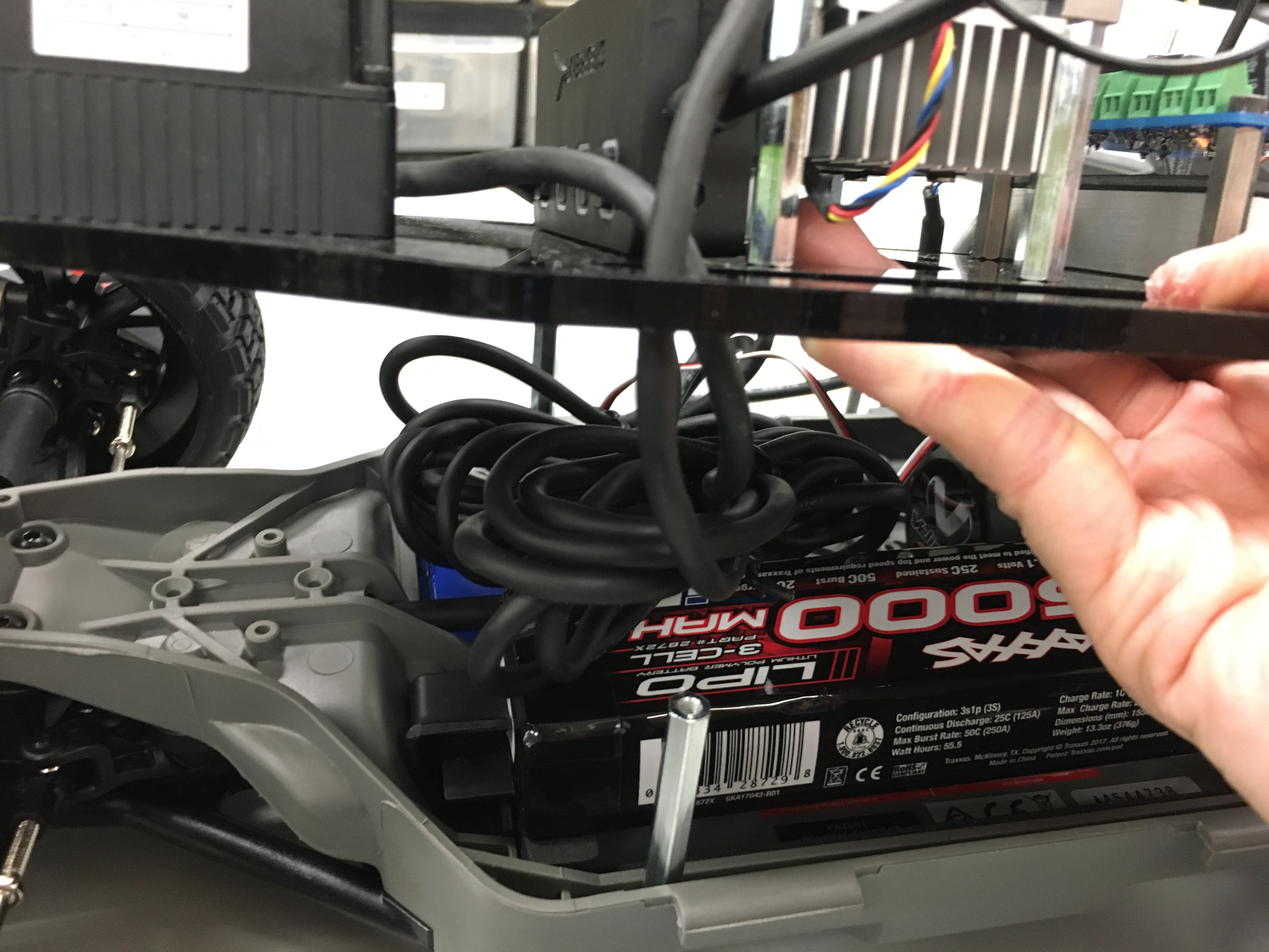
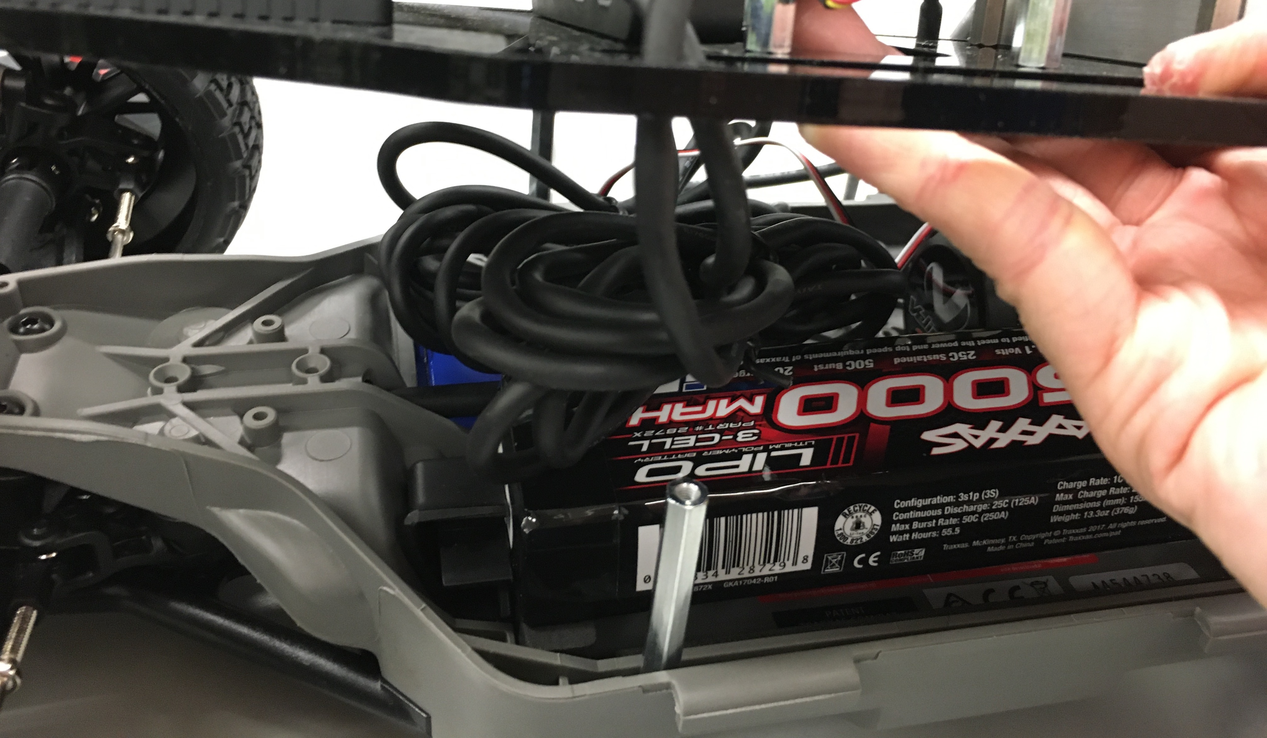
Rewriting Part 4 - Putting all together

diff --git a/getting_started/build_car/all_together.rst b/getting_started/build_car/all_together.rst
@@ -97,45 +97,59 @@ It should look like this:
 
 	TRX to XT90 adapter installed.
 
+After connecting the batter the car should look like this.
+
+.. figure:: img/together/together_NX_01.JPG
+	:align: center
+
+	Battery connected to the VESC.
+
 
 4. Connecting the NVIDIA Jetson NX with the VESC
 ----------------------------
 
+The NVIDIA Jetson NX needs to be connected to the powerboard. Use the barrel jack to pig tail connector. The board uses a 2.5x5.5mm power jack (MFN: PJ-036BH-SMT-TR). It is an unfortunate fact of life that the connections for barrel jacks are not standarized. For the specific barrel jack on this board, the center pin is POWER. Do not plug in a power supply whose center pin is ground. Connect one of the ends of the cable with GND on the powerboard, the other one with the 12V connector. Afterwards you can plug in the barrel jack in the NVIDIA Jetson NX.
+
+.. figure:: img/together/together_NX_03.JPG
+	:align: center
+
+	NVIDIA Jetson power supply connected with the powerboard.
+
 5. Lidar Connection
 ------------------------------
 
-	 The lidar comes with two very long cables. We are going to try out best to manage them. Split the two cables of the lidar and loop them under the slots on the Platform Deck.
+The lidar comes with two very long cables. We are going to try out best to manage them. Split the two cables of the lidar and loop them under the slots on the Platform Deck.
 
-	 .. figure:: img/ulchassis/ulchassis15.JPG
-	 	:align: center
+.. figure:: img/together/together_NX_06.JPG
+	:align: center
 
-	 	Looping the lidar cables through the slots.
+	Storing the USB Lidar Cable in front of the Lidar
 
-	 Using a twist tie, rubber band, or zip tie, gather the majority of the cables on each side.
+Using a twist tie, rubber band, or zip tie, gather the majority of the cables on each side.
 
-	 For the stripped cable side, insert the **BROWN (POWER)** and **BLUE (GROUND)** wires into one of the 12V terminal blocks on the Powerboard.
+For the stripped cable side, insert the **BROWN (POWER)** and **BLUE (GROUND)** wires into one of the 12V terminal blocks on the Powerboard.
 
-	 .. DANGER::
-	 	***BROWN is POWER and BLUE is GROUND.*  DO NOT MIX THESE UP OTHERWISE YOU WILL FRY YOUR VERY EXPENSIVE LIDAR.** And then life will be very very sad. When in doubt, check the side of the Hokuyo. It will list out the correspondence of each wire.
+.. DANGER::
+	***BROWN is POWER and BLUE is GROUND.*  DO NOT MIX THESE UP OTHERWISE YOU WILL FRY YOUR VERY EXPENSIVE LIDAR.** And then life will be very very sad. When in doubt, check the side of the Hokuyo. It will list out the correspondence of each wire.
 
-	 .. figure:: img/ulchassis/ulchassis16.JPG
-	 	:align: center
+.. figure:: img/ulchassis/ulchassis16.JPG
+	:align: center
 
-	 	Side view with wires coiled.
+Side view with wires coiled.
 
-	 .. figure:: img/ulchassis/ulchassis17.JPG
-	 	:align: center
+.. figure:: img/ulchassis/ulchassis17.JPG
+	:align: center
 
-	 	Lidar power is plugged into the terminal block with Brown to Power and Blue to Ground.
+Lidar power is plugged into the terminal block with Brown to Power and Blue to Ground.
 
-	 If using the UTM-30LX, plug the USB into one of the ports on the USB hub.
+If using the UTM-30LX, plug the USB into one of the ports on the USB hub.
 
-	 .. figure:: img/ulchassis/ulchassis18.JPG
-	 	:align: center
+.. figure:: img/ulchassis/ulchassis18.JPG
+	:align: center
 
-	 	USB side of lidar plugged into USB hub. If you are using a 10LX, plug it into the ethernet port on the Orbitty.
+USB side of lidar plugged into USB hub. If you are using a 10LX, plug it into the ethernet port on the Orbitty.
 
-	 If using the UST-10LX, plug the ethernet cable into the ethernet port on the Orbitty board.
+If using the UST-10LX, plug the ethernet cable into the ethernet port on the Orbitty board.
 
 
 6. Attaching the PPM Cable
@@ -177,8 +191,8 @@ Connect the ppm cable with the servo wire.
 
 In additon you can plug it into the ppm slot on the VESC.
 
-.. figure:: img/together/together03.JPG
-	 :align: center
+.. figure:: img/llchassis/together03.JPG
+  :align: center
 
 	PPM cable plugged into VESC.
 
@@ -192,16 +206,9 @@ The Lower Level chassis is now set up and we can move on to the autonomy element
 ------------------------------
 Almost there!
 
-Attach the two wires for the Jetson Wi-Fi antenna to the two gold-colored connectors near the fan connector on the heat sink (the order of the wires doesn’t matter). This can be a little tricky, so you might want to use a flathead screwdriver to ensure the connections are tight.  Don’t press too hard , however as you can easily damage the connectors if you use excessive force!
+Connect a micro USB (here: the white cable) from the VESC to the USB hub.
 
-.. figure:: img/together/together05.JPG
-  	:align: center
-
-	Attached antenna wires.
-
-Connect a micro USB from the VESC to the USB hub.
-
-.. figure:: img/together/together06.JPG
+.. figure:: img/together/together_NX_08.JPG
   	:align: center
 
 	Micro USB plugged into the VESC. Plug the USB side into the USB hub.
@@ -212,7 +219,7 @@ Finally, screw on the antennas included with the Jetson TX2 Kit to the Antenna T
 ----------
 Your final vehicle should look like the following:
 
- .. figure:: img/together/together04.JPG
+ .. figure:: img/together/final.JPG
    	:align: center
 
 	Final product! It looks a bit messy but cable management is an art!
@@ -223,3 +230,13 @@ Now we're ready to start driving!
 .. figure:: img/together/together05.gif
    :align: center
    :width: 300px
+
+DEPRECATED: NVIDIA TX2 Setup
+----------
+
+Attach the two wires for the Jetson Wi-Fi antenna to the two gold-colored connectors near the fan connector on the heat sink (the order of the wires doesn’t matter). This can be a little tricky, so you might want to use a flathead screwdriver to ensure the connections are tight.  Don’t press too hard , however as you can easily damage the connectors if you use excessive force!
+
+.. figure:: img/together/together05.JPG
+  	:align: center
+
+	Attached antenna wires.
